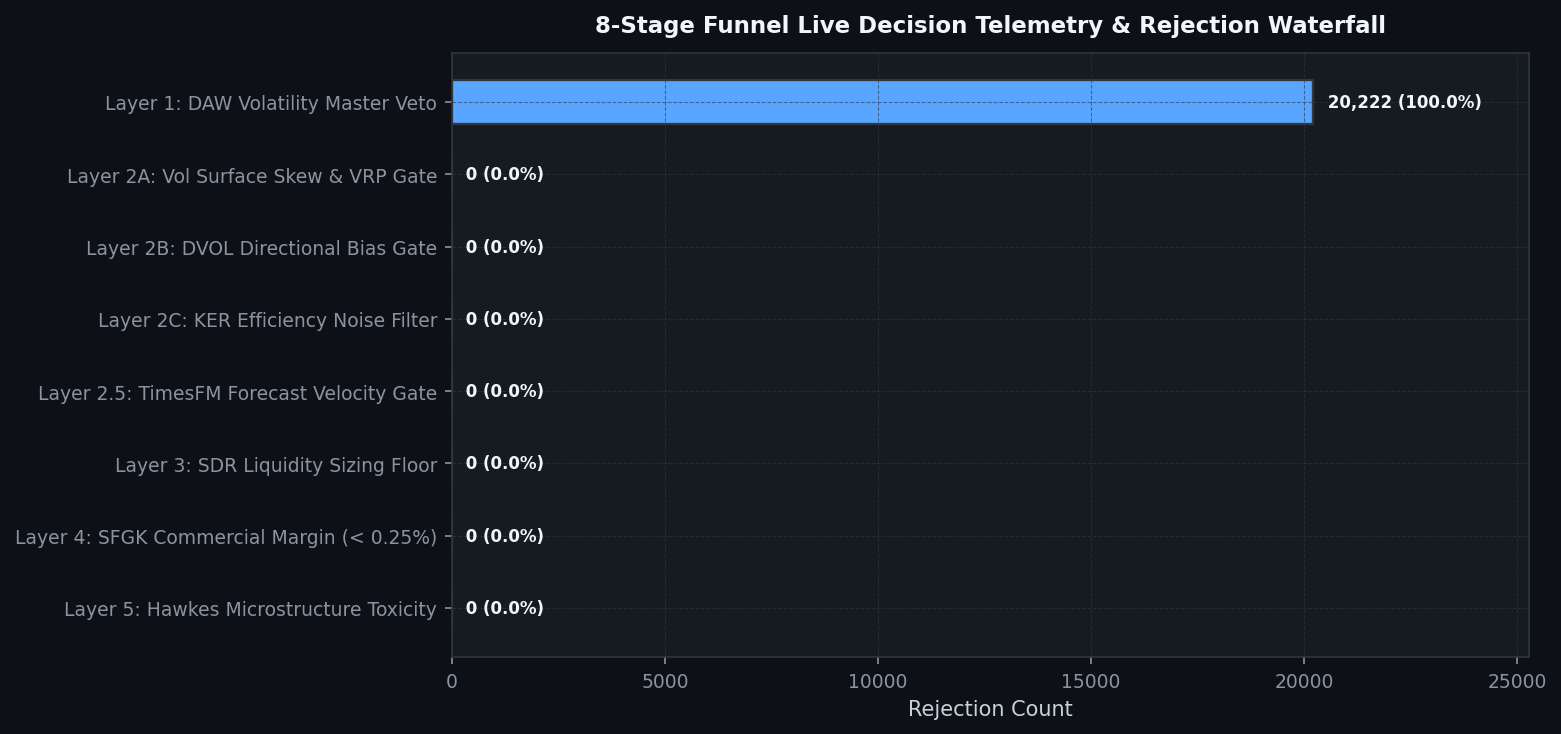
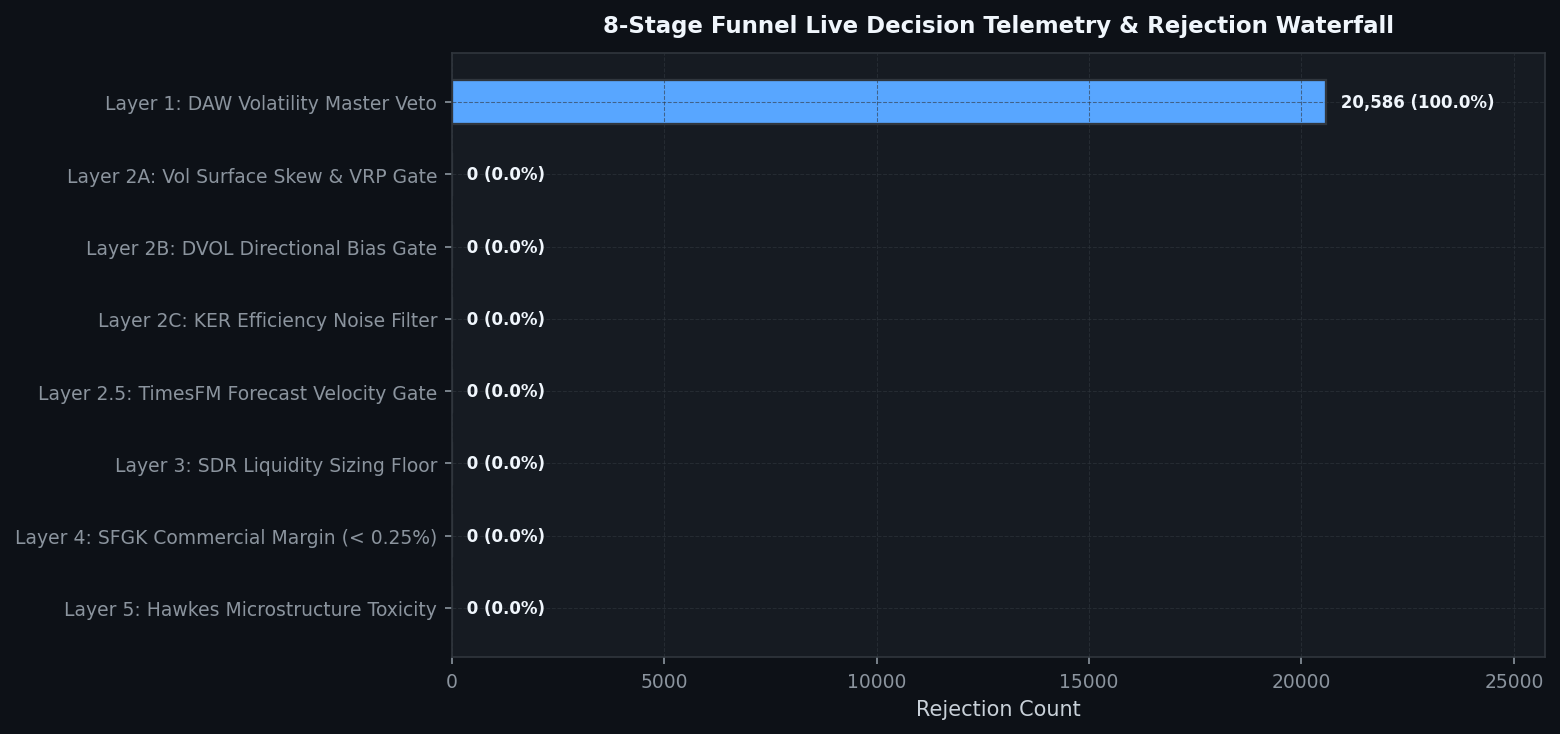
[coinbase] Hourly Status & Visual Intelligence Update: 2026-08-14 12:21:33

diff --git a/coinbase/data/hourly_status_report.md b/coinbase/data/hourly_status_report.md
@@ -1,5 +1,5 @@
 # 🛡 Unified Trading System Hourly Status & Visual Intelligence
-> **Report Generated**: `2026-08-14 12:02:51 PM PDT (2026-08-14 19:02:51 UTC)`  
+> **Report Generated**: `2026-08-14 12:21:14 PM PDT (2026-08-14 19:21:14 UTC)`  
 > **System Health**: **🟡 DEGRADED / RESTRICTED** | **Win Rate**: `0.0%` | **Completed Trades**: `0`
 
 ---
@@ -8,13 +8,13 @@ Real-time Deribit implied volatility (DVOL) proxy tracking against mathematicall
 
 | Symbol | Proxy Oracle | Live Z-Score | Optimal Limit (YSP) | Safety Margin | Live VRP | Optimal VRP (YSP) | DAW Safety Verdict |
 | :--- | :--- | :--- | :--- | :--- | :--- | :--- | :--- |
-| `AVAX-USD` | DVOL_BTC | **+0.85** | **-0.50** | **+1.35** | **+10.80** | 5.0 | 🔴 DAW VETOED |
-| `ETH-USD` | DVOL_ETH | **-0.82** | **-0.50** | **-0.32** | **+23.23** | 5.0 | 🔴 DAW VETOED |
-| `ADA-USD` | DVOL_BTC | **+0.85** | **-0.50** | **+1.35** | **+10.80** | 5.0 | 🔴 DAW VETOED |
-| `DOGE-USD` | DVOL_BTC | **+0.85** | **-0.50** | **+1.35** | **+10.80** | 5.0 | 🔴 DAW VETOED |
-| `BTC-USD` | DVOL_BTC | **+0.85** | **-0.50** | **+1.35** | **+10.80** | 5.0 | 🔴 DAW VETOED |
-| `LINK-USD` | DVOL_BTC | **+0.85** | **-0.50** | **+1.35** | **+10.80** | 5.0 | 🔴 DAW VETOED |
-| `SOL-USD` | DVOL_BTC | **+0.85** | **-0.50** | **+1.35** | **+10.80** | 5.0 | 🔴 DAW VETOED |
+| `AVAX-USD` | DVOL_BTC | **+0.94** | **-0.50** | **+1.44** | **+10.79** | 5.0 | 🔴 DAW VETOED |
+| `ETH-USD` | DVOL_ETH | **-0.57** | **-0.50** | **-0.07** | **+23.30** | 5.0 | 🔴 DAW VETOED |
+| `ADA-USD` | DVOL_BTC | **+0.94** | **-0.50** | **+1.44** | **+10.79** | 5.0 | 🔴 DAW VETOED |
+| `DOGE-USD` | DVOL_BTC | **+0.94** | **-0.50** | **+1.44** | **+10.79** | 5.0 | 🔴 DAW VETOED |
+| `BTC-USD` | DVOL_BTC | **+0.94** | **-0.50** | **+1.44** | **+10.79** | 5.0 | 🔴 DAW VETOED |
+| `LINK-USD` | DVOL_BTC | **+0.94** | **-0.50** | **+1.44** | **+10.79** | 5.0 | 🔴 DAW VETOED |
+| `SOL-USD` | DVOL_BTC | **+0.94** | **-0.50** | **+1.44** | **+10.81** | 5.0 | 🔴 DAW VETOED |
 
 ![DVOL Market Regime](./images/dvol_regime_timeline.png)
 
@@ -44,12 +44,12 @@ We hereby certify that the mission-critical algorithmic data assets uploaded by 
 
 | Status | Data Asset | Freshness / State | Details / Timestamp |
 | :---: | :--- | :--- | :--- |
-| ✅ | **Go-List JSON** | Fresh (28.90h old) | 08-13 07:08 |
-| ✅ | **TimesFM Forecasts** | Fresh (4.02h old) | 08-14 08:02 |
-| ✅ | **Holding Times config** | Fresh (50.39h old) | 08-12 09:39 |
-| ✅ | **BTC DVOL Cache** | Fresh (0.00h old) | 08-14 12:02 |
-| ✅ | **ETH DVOL Cache** | Fresh (0.00h old) | 08-14 12:03 |
-| ✅ | **Live Trading Telemetry** | Fresh (0.00h old) | 08-14 12:03 |
+| ✅ | **Go-List JSON** | Fresh (29.21h old) | 08-13 07:08 |
+| ✅ | **TimesFM Forecasts** | Fresh (4.32h old) | 08-14 08:02 |
+| ✅ | **Holding Times config** | Fresh (50.70h old) | 08-12 09:39 |
+| ✅ | **BTC DVOL Cache** | Fresh (0.00h old) | 08-14 12:21 |
+| ✅ | **ETH DVOL Cache** | Fresh (0.00h old) | 08-14 12:21 |
+| ✅ | **Live Trading Telemetry** | Fresh (0.00h old) | 08-14 12:21 |
 
 <br>
 
@@ -62,7 +62,7 @@ Layer-by-layer tick evaluation waterfall and asset-specific performance tracking
 
 | Funnel Filter Layer | Total Rejections | % of Rejections |
 | :--- | :--- | :--- |
-| Layer 1: DAW Causal Volatility Veto | `20,222` | **100.0%** |
+| Layer 1: DAW Causal Volatility Veto | `20,586` | **100.0%** |
 | Layer 2A: Vol Surface Skew & VRP Gate | `0` | **0.0%** |
 | Layer 2B: DVOL Directional Momentum Bias | `0` | **0.0%** |
 | Layer 2C: KER Efficiency Noise Filter | `0` | **0.0%** |
@@ -111,14 +111,14 @@ Live balance sheet and open maker liquidity positions from Coinbase CDP.
 ## 4. 🤖 Foundation Model MLOps & Pipeline Orchestration
 Weekly Algorithmic Mega Cap selection, Zero-shot multi-step forward return forecasts, and VSTEF parameter grid search status.
 
-- **TimesFM Forecast DB**: 🟢 Updated 4.0h ago (2026-08-14 08:02 AM PDT)
+- **TimesFM Forecast DB**: 🟢 Updated 4.3h ago (2026-08-14 08:02 AM PDT)
 - **Last Weekly VSTEF Optimization**: `2026-08-12 01:22:32 PM PDT`
-- **Next Scheduled VSTEF Run**: `2026-08-16 07:00:00 PM PDT (Monday 02:00 UTC)` (Countdown: **55.0h (2d 6h 57m)**)
+- **Next Scheduled VSTEF Run**: `2026-08-16 07:00:00 PM PDT (Monday 02:00 UTC)` (Countdown: **54.6h (2d 6h 38m)**)
 - **Promoted Parameter Gates**: $Z_{DVOL} \le -0.5$ | Holding Horizon $= 12\text{h}$
 
 ### Algorithmic Mega Cap Selection
 - **Last Run (Confirmation)**: `Never`
-- **Next Scheduled Run**: `2026-08-16 06:00:00 PM PDT (Monday 01:00 UTC)` (Countdown: **53.9h (2d 5h 56m)**)
+- **Next Scheduled Run**: `2026-08-16 06:00:00 PM PDT (Monday 01:00 UTC)` (Countdown: **53.6h (2d 5h 38m)**)
 - **Selected Mega Cap Universe**: `Could not fetch active universe from EC2`
 
 ![TimesFM Forecast Matrix](./images/timesfm_forecast_matrix.png)
@@ -132,19 +132,19 @@ Visualizing the impact of the VSTEF (Volatility-Synchronized Stop-Tightening Exe
 ## 5. 🖥 Multi-Node Infrastructure & Watchdog Matrix
 ```text
 ================================================================================
-   🛡  SFGK FUNNEL GUARDIAN WATCHDOG (HFT ONLY) |  07:02:50 PM
-   CPU:  18.7%  |  MEM:   6.3% (14.4GB / 15.4GB Free)
+   🛡  SFGK FUNNEL GUARDIAN WATCHDOG (HFT ONLY) |  07:21:12 PM
+   CPU:  20.3%  |  MEM:   6.3% (14.4GB / 15.4GB Free)
 ================================================================================
 SERVICE              | PID      | STATUS          | RESTARTS | INFO
 --------------------------------------------------------------------------------
 L3 Consumer          | 2793725  | RUNNING         | -        | Continuous Websocket Feed
-Trader AVAX-USD      | 2866247  | RUNNING         | 239      | Evaluating Funnel/Polling Order
-Trader ETH-USD       | 2866248  | RUNNING         | 239      | Evaluating Funnel/Polling Order
-Trader ADA-USD       | 2866249  | RUNNING         | 239      | Evaluating Funnel/Polling Order
-Trader DOGE-USD      | 2866250  | RUNNING         | 239      | Evaluating Funnel/Polling Order
-Trader BTC-USD       | 2866251  | RUNNING         | 239      | Evaluating Funnel/Polling Order
-Trader LINK-USD      | 2866252  | RUNNING         | 239      | Evaluating Funnel/Polling Order
-Trader SOL-USD       | 2866008  | COOL-DOWN       | 238      | Next run in 9.0s
+Trader AVAX-USD      | 2882249  | RUNNING         | 291      | Evaluating Funnel/Polling Order
+Trader ETH-USD       | 2882250  | RUNNING         | 291      | Evaluating Funnel/Polling Order
+Trader ADA-USD       | 2882251  | RUNNING         | 291      | Evaluating Funnel/Polling Order
+Trader DOGE-USD      | 2882252  | RUNNING         | 291      | Evaluating Funnel/Polling Order
+Trader BTC-USD       | 2882253  | RUNNING         | 291      | Evaluating Funnel/Polling Order
+Trader LINK-USD      | 2882254  | RUNNING         | 291      | Evaluating Funnel/Polling Order
+Trader SOL-USD       | 2881923  | COOL-DOWN       | 290      | Next run in 9.0s
 ================================================================================
 ```
 
